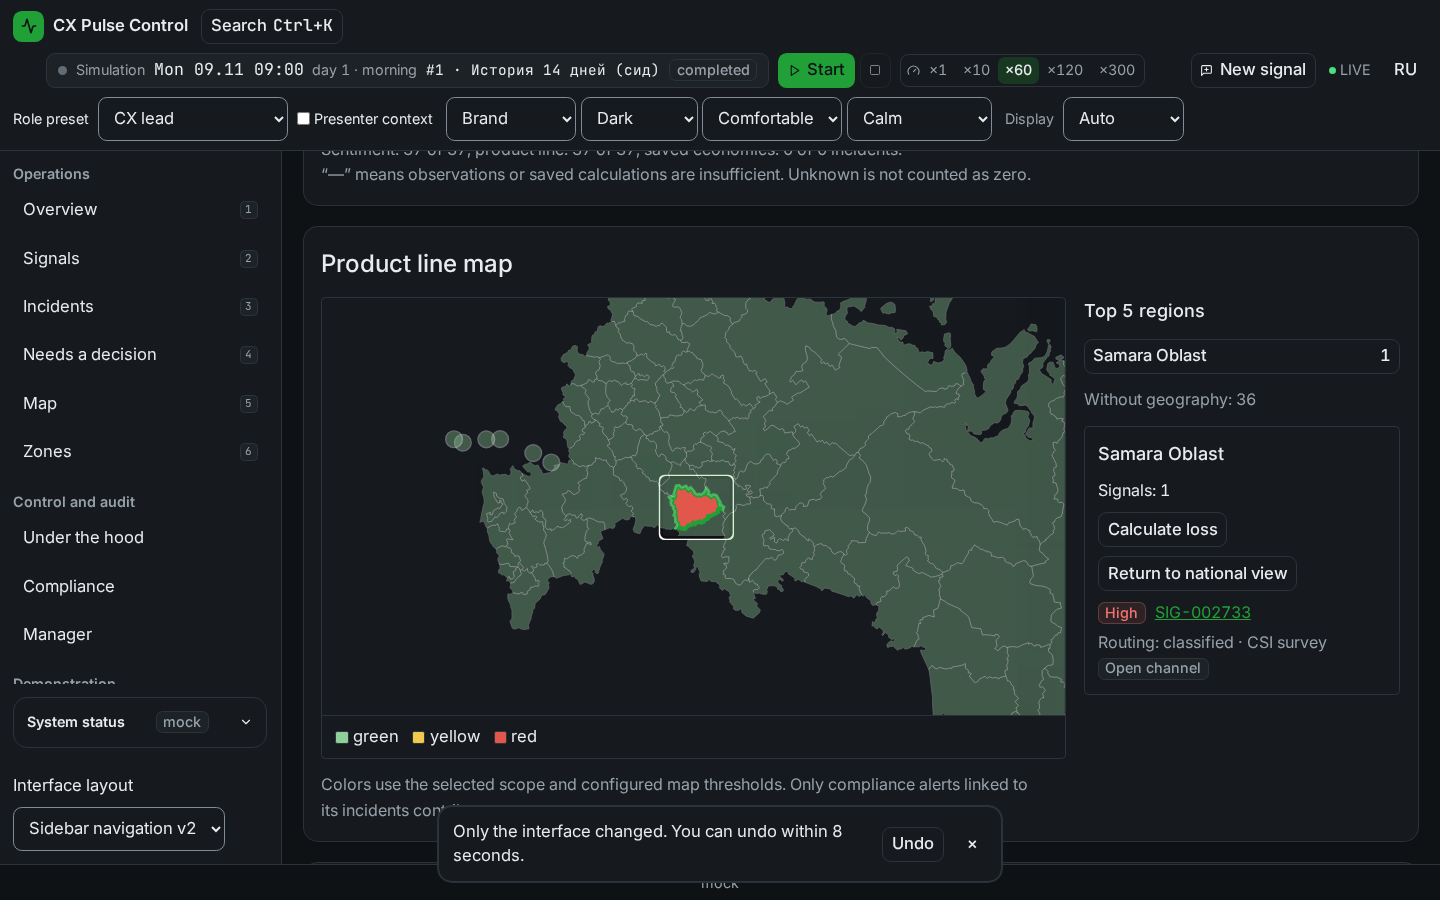
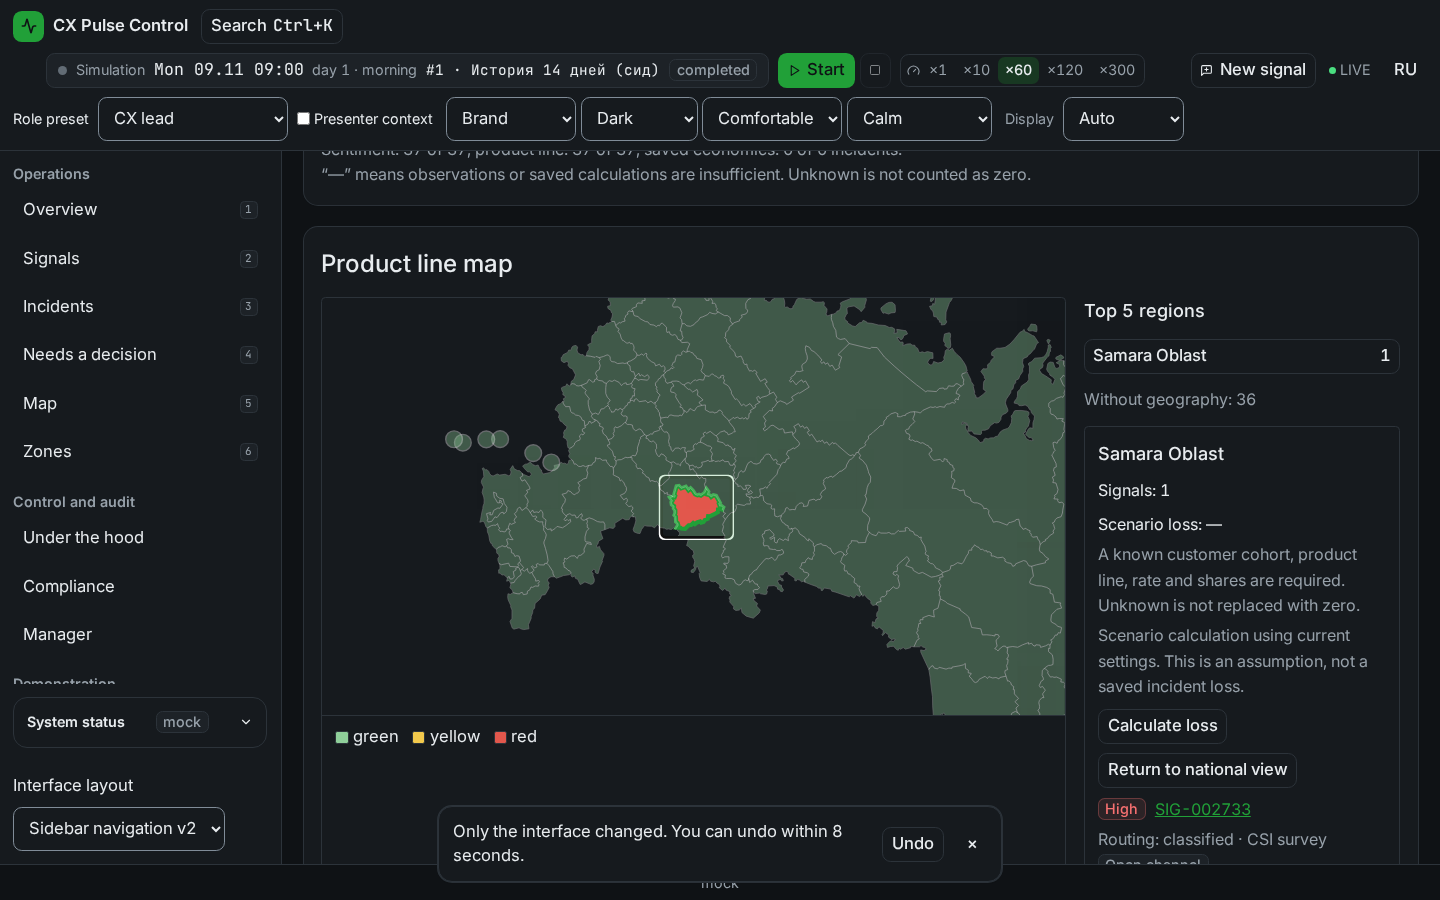
docs(T-242): сохранить server money proof и реальный нулевой cohort

diff --git a/frontend/e2e/calculator-map.spec.ts b/frontend/e2e/calculator-map.spec.ts
@@ -39,9 +39,23 @@ test('T243 actual full catalog uses server preview for each selected rate', asyn
       codes.push(actual.rate_code)
     }
     expect(codes.sort()).toEqual(economics.rates.map((rate: { code: string }) => rate.code).sort())
+    await page.keyboard.press('Escape')
+    const scoped = await (await request.get(`/api/cabinet/overview?product_line=${line.code}&period=month&run_id=current`, { headers: { 'X-Cx-Role': 'product_manager', 'X-Cx-Product-Line': line.code } })).json()
+    const empty = scoped.regions.find((region: { affected_clients: number | null; signals: number }) => region.affected_clients === 0 && region.signals === 0)
+    expect(empty).toBeTruthy()
+    const name = empty.name_ru.replace(/[.*+?^${}()|[\]\\]/g, '\\$&')
+    const emptyRegion = page.locator('[data-cabinet]').getByRole('button', { name: new RegExp('^' + name + ':') })
+    // У маленького полигона bbox-центр может лежать в соседнем регионе; проверяем штатную клавиатуру.
+    await emptyRegion.focus({ timeout: 5_000 })
+    await page.keyboard.press('Enter')
+    await expect.poll(() => new URL(page.url()).searchParams.get('region')).toBe(empty.code)
+    await expect(page.getByTestId('region-loss-preview')).toContainText('0 ₽')
+    await page.getByRole('button', { name: 'Рассчитать потерю', exact: true }).click()
+    await expect(drawer.getByLabel('Пострадавшие')).toHaveValue('0')
+    await expect(drawer.locator('[aria-live]')).toHaveText('0 ₽')
     expect(failures).toEqual([])
     const proof = info.outputPath('actual-rate-catalog.json')
-    await writeFile(proof, JSON.stringify({ source: 'T242+T243 actual production composition', catalog_count: codes.length, all_selected_codes: codes, readonly_page_failures: failures }, null, 2))
+    await writeFile(proof, JSON.stringify({ source: 'T242+T243 actual production composition', catalog_count: codes.length, actual_empty_region_prefill: 0, actual_empty_region_server_result: 0, all_selected_codes: codes, readonly_page_failures: failures }, null, 2))
     await info.attach('actual-rate-catalog', { path: proof, contentType: 'application/json' })
   } finally {
     await request.patch('/api/settings', { data: { ui: settings.ui ?? null, cabinet: settings.cabinet ?? null } })

diff --git a/docs/tasks/T-242-ekran-kabinet-menedzhera-produkta-cabinet-kpi-ka.md b/docs/tasks/T-242-ekran-kabinet-menedzhera-produkta-cabinet-kpi-ka.md
@@ -46,12 +46,12 @@ cd frontend && npx playwright test e2e/cabinet.spec.ts
 ## Отчёт субагента
 Ветка `codex/T-242-product-cabinet`, stacked от T241 API22/DDL18.
 Реальны7blocks, scoped roles/run/period/visibility, карта/топ5/регион,
-feed20/table/filters/SLA, SVG charts, coverage-aware CSI и локальный калькулятор.
+feed20/table/filters/SLA, SVG charts, coverage-aware CSI и serverpreview калькулятор.
 Глобальные priority/night queries на cabinet не стартуют; scoped night внутри
 signalsblock. Unknown money/anonymous cohort не становятся0.
-Full frontend384green, обеproductionbuilds/lint/typecheck/i18n2015keys green,
-actual production4/4 ru/en×themes/mobile/strict/night/keyboard/Undo/viewportDrawer,
+Full frontend407green, обеproductionbuilds/lint/typecheck/i18n2019keys green,
+actual production5/5 ru/en×themes/mobile/strict/night/keyboard/Undo/viewportDrawer,
 14curatedPNG tracked. T241 actual65PG/98%coverage и readonly107fingerprints
 зафиксированы отдельно. Report: docs/reviews/T-242-product-cabinet.md.
-T244report501/T249fullCSI/T243expandedcalculator — отдельные карточки; human
+T244report501/T249fullCSI/T243producerAPI24 внедрён отдельной stacked веткой; canonical T262scenario14 ещё pending; human
 API22/DDL18 review, exactheadCI и liveGigaDoD не заявлены выполненными.

diff --git a/docs/screenshots/T-242/README.md b/docs/screenshots/T-242/README.md
@@ -7,9 +7,9 @@ Mock-only startup с BombLLM и запретом внешней сети. API о
 mobile360px и night-mobile. Последняя — **явно заданная fixed night** с
 reduced motion, а не естественный переход симуляции в ночь.
 
-Source приложения00d6abf (Drawer fix15856a3; normal T241 composition f1c77fe), browser4/4 (24.9s).
+Source приложенияc69a000 (API24/T243cb115a3 composition), browser5/5 (29.8s).
 Calculator снят после opacity1: fixed-панель вне hover-transformed card,
 верх0/fullviewport900 и поле в viewport проверены regression.
 Синтетические customer texts/run labels остаются данными; статический UI ru/en.
-Серые деньги/пустое число пострадавших обозначают неизвестность, не нулевой убыток.
+Серые KPI деньги/пустое число пострадавших обозначают неизвестность. Calculator PNG показывает готовый serverpreview для явного сценарного ввода2; это не сохранённый ущерб. Все31rates также проверены через UI; трехdecimalcatalog rates передаются без изменения, result округляет сервер.
 Проверки/хеши/границы writes: `docs/reviews/T-242-browser-proof.json`.
